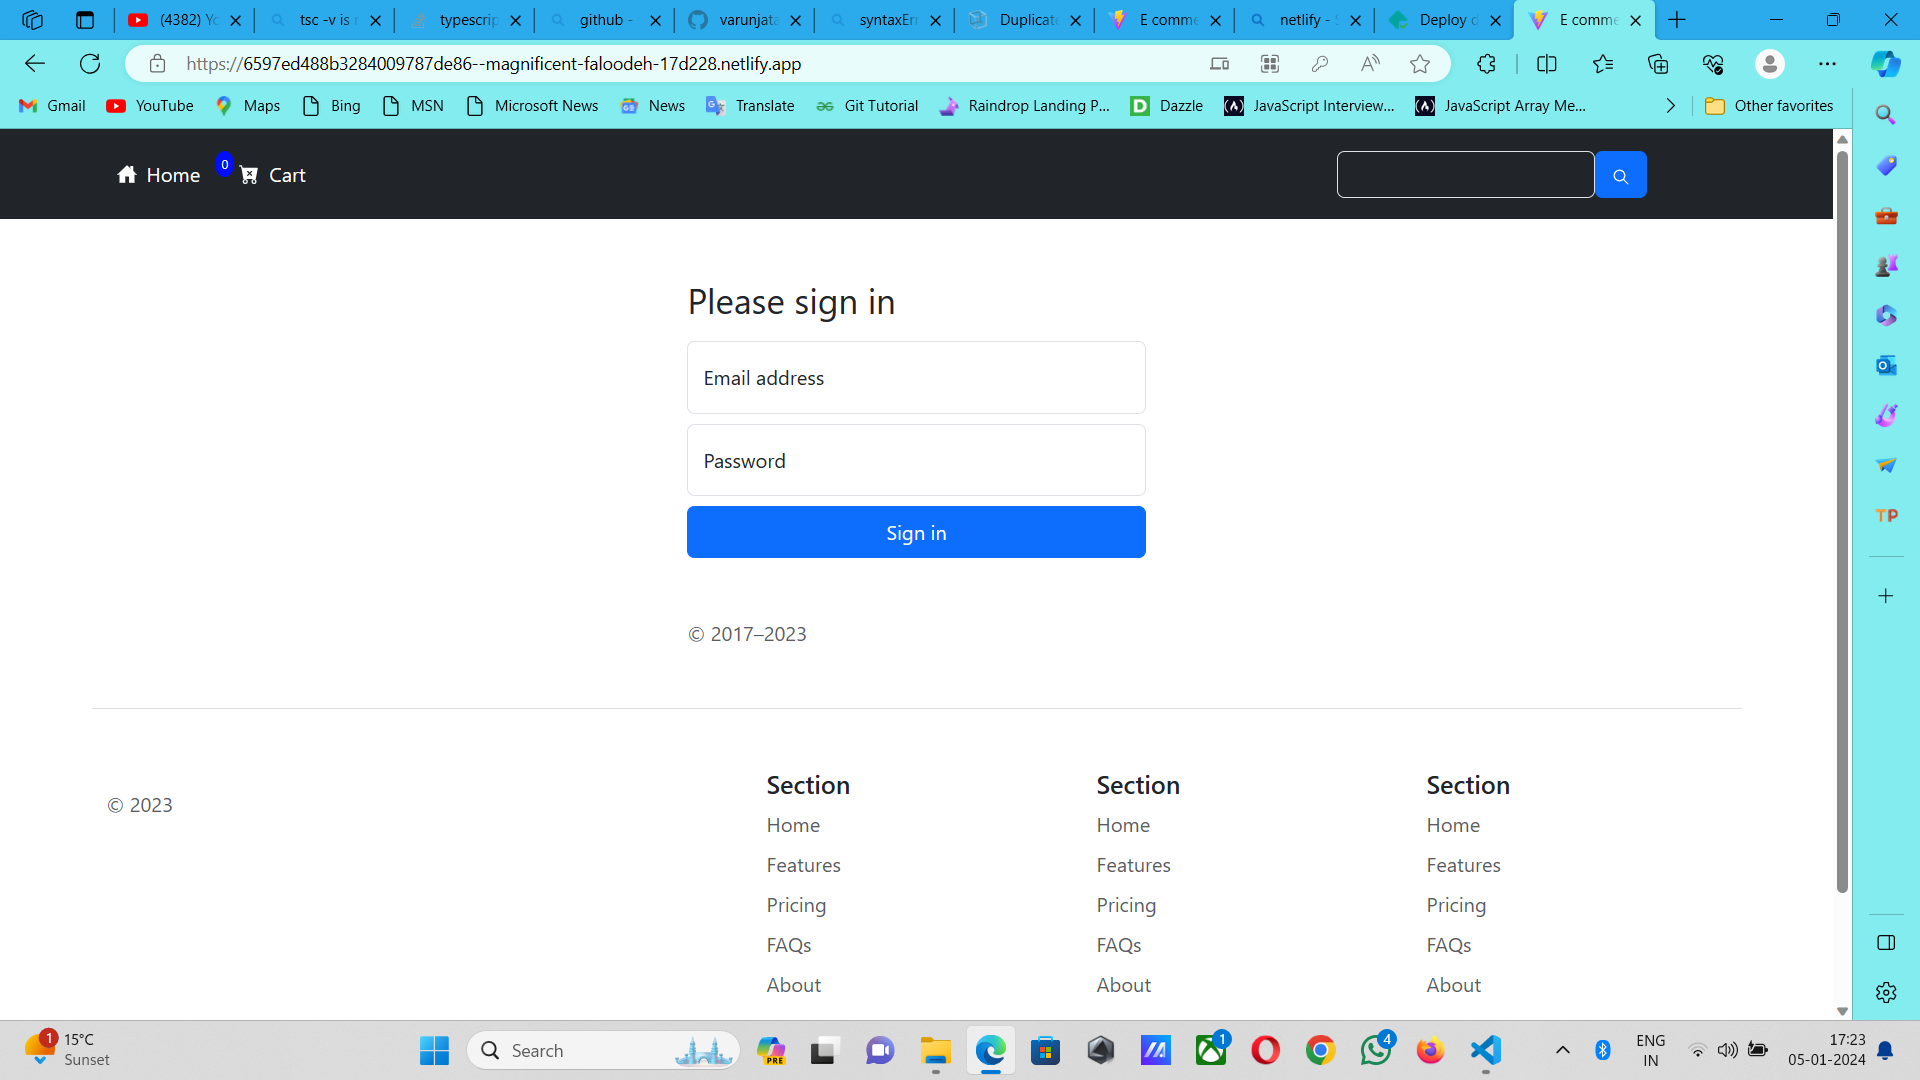
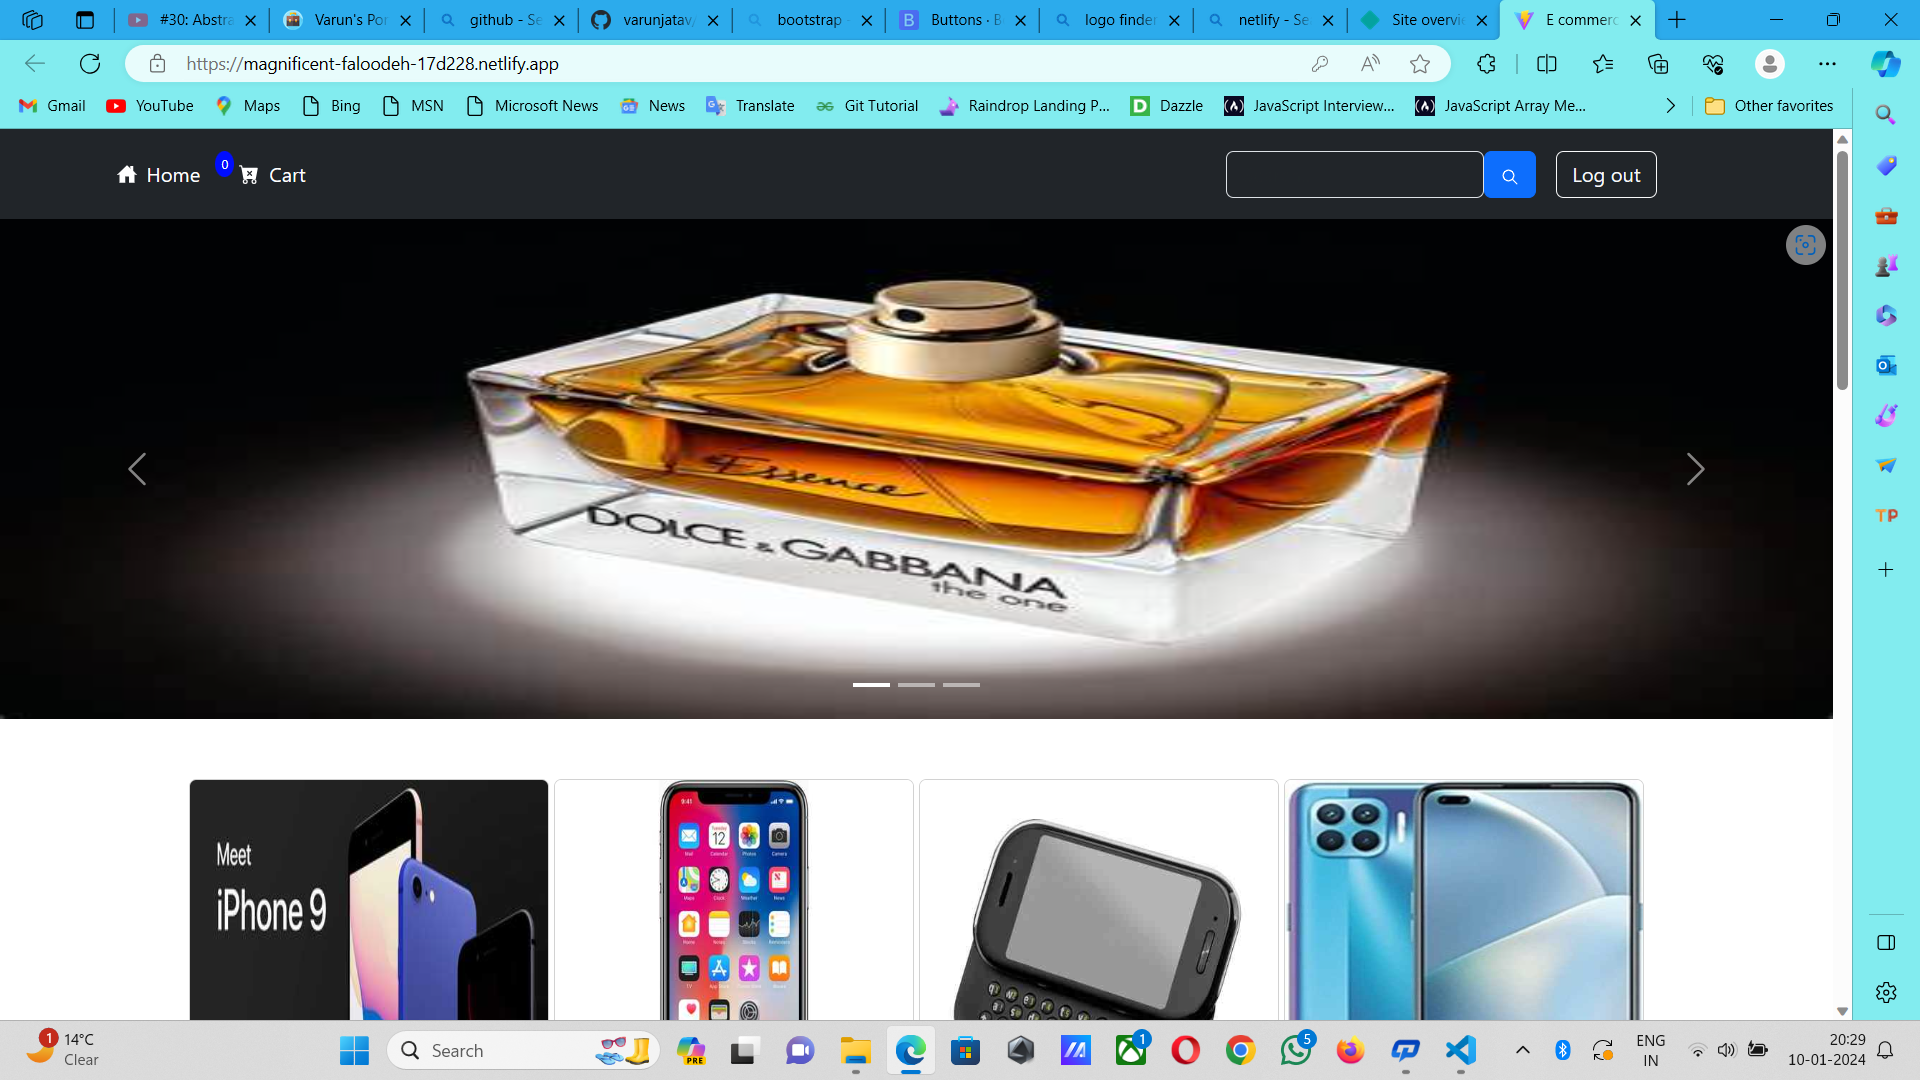
certificate section started

diff --git a/varun-portfolio/src/routes/Projects.jsx b/varun-portfolio/src/routes/Projects.jsx
@@ -5,13 +5,13 @@ const projects = [
   {
     id: 1,
     img: "/black-pearl.png",
-    title: "Weather app",
+    title: "Black Pearl",
     content:
       "Black Pearl is an Ecommerce Website where you can find a variety of jewelleries of Gold, Platinum, Solitiare, Diamond, Silver, etc and more",
     github: "https://github.com/nikhildeora/black-pearl",
     netlify:
       "https://startling-tulumba-8a76b2.netlify.app/",
-    techStack: ["/html.png", "/css.png" , "/javascript.png", "/react.png", "/bootstrap.png"],
+    techStack: ["/html.png", "/css.png" , "/javascript.png", "/react.png", "/bootstrap.png", "/firebase.png"],
   },
   {
     id: 2,
@@ -26,13 +26,13 @@ const projects = [
   },
   {
     id: 3,
-    img: "/weather-app.png",
-    title: "Weather app",
+    img: "/e-commerce.png",
+    title: "E commerce App",
     content:
-      "A React weather app where you can check weathers of cities and countries",
-    github: "https://github.com/varunjatav/weather-app",
+      "An E commerce app to find electronics and household products",
+    github: "https://github.com/varunjatav/e-coomerce",
     netlify:
-      "https://658ea8986ca12d9c5896be81--incredible-haupia-446af4.netlify.app/",
+      "https://magnificent-faloodeh-17d228.netlify.app/",
     techStack: ["/html.png", "/css.png", "/react.png", "/bootstrap.png"],
   },
 ];
@@ -75,6 +75,7 @@ const Projects = () => {
                 <div className="d-flex flex-wrap align-items-center justify-content-between pt-4">
                   {single.techStack.map((tech) => (
                     <img
+                    key={tech}
                       src={tech}
                       alt="javascript"
                       width="50px"

diff --git a/varun-portfolio/src/routes/Certificates.jsx b/varun-portfolio/src/routes/Certificates.jsx
@@ -1,9 +1,36 @@
-
-
 const Certificates = () => {
   return (
-    <div>Certificates</div>
-  )
-}
+    <div className="d-flex justify-content-around p-2 gap-5 flex-wrap">
+      <div className="border-2" style={{ width: "400px", height: "400px" }}>
+        <img
+          src="react-redux-certificate.png"
+          alt="react-redux-certificate"
+          width="100%"
+          height="80%"
+        />
+        <h3 className="text-center fst-italic">React and redux-Toolkit</h3>
+      </div>
+      <div className="border-2" style={{ width: "400px", height: "400px" }}>
+        <img
+          src="web-development-certificate.jpg"
+          alt="react-redux-certificate"
+          width="100%"
+          height="80%"
+        />
+        <h3 className="text-center fst-italic">Full Stack</h3>
+      </div>
+    
+      <div className="border-2" style={{ width: "400px", height: "400px" }}>
+        <img
+          src="typescript-certificate.jpg"
+          alt="typescript-certificate"
+          width="100%"
+          height="80%"
+        />
+        <h3 className="text-center fst-italic">Typescript</h3>
+      </div>
+    </div>
+  );
+};
 
-export default Certificates
+export default Certificates;
